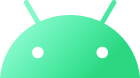
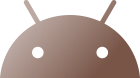
验收&修改主色

diff --git a/index.html b/index.html
@@ -56,21 +56,21 @@
             <div class="features-title">产品功能</div>
             <div class="features-content">
                 <div class="features-item">
-                    <img class="features-item-icon" src="./images/ai.png" />
+                    <img class="features-item-icon" src="./images/1.png" />
                     <div>
                         <div class="features-item-title">生成式AI翻译引擎</div>
                         <div>领先的自研语音识别技术与GPT内容理解结合，进行了AI解译预调教，提供准确专业的同传翻译</div>
                     </div>
                 </div>
                 <div class="features-item">
-                    <img class="features-item-icon" src="./images/voice.png" />
+                    <img class="features-item-icon" src="./images/2.png" />
                     <div>
                         <div class="features-item-title">实时语音转写</div>
                         <div>对通过硬件接受的音源信号，针对连续中文语音流进行实时语音转写识别</div>
                     </div>
                 </div>
                 <div class="features-item">
-                    <img class="features-item-icon" src="./images/sound-recording.png" />
+                    <img class="features-item-icon" src="./images/3.png" />
                     <div>
                         <div class="features-item-title">会议录音转写</div>
                         <div>对历史音频导入系统，进行快速转写，支持对转写进行结果编辑整理</div>
@@ -79,21 +79,21 @@
             </div>
             <div class="features-content">
                 <div class="features-item">
-                    <img class="features-item-icon" src="./images/multi-scenario-applications.png" />
+                    <img class="features-item-icon" src="./images/4.png" />
                     <div>
                         <div class="features-item-title">多场景应用</div>
                         <div>针对国外课程学习，多人视频会议，面试求职等典型场景，翻译纪要要查看、编辑、导出等功能</div>
                     </div>
                 </div>
                 <div class="features-item">
-                    <img class="features-item-icon" src="./images/technology-identification.png" />
+                    <img class="features-item-icon" src="./images/5.png" />
                     <div>
                         <div class="features-item-title">技术领先识别准确</div>
                         <div>采用领先国际的流式端到端语音语言一体化建模方案，融合自研的自然语言处理技术，近场英文识别准确率99%+</div>
                     </div>
                 </div>
                 <div class="features-item">
-                    <img class="features-item-icon" src="./images/intelligent-conversion.png" />
+                    <img class="features-item-icon" src="./images/6.png" />
                     <div>
                         <div class="features-item-title">数字格式智能转换</div>
                         <div>根据语音内容理解可以将数字序列、小数、时间、分数、基础运算符正确转换为数字格式，使得识别的数字结果更符合使用习惯，直观自然</div>

diff --git a/index.css b/index.css
@@ -34,7 +34,10 @@ body {
 .top-nav {
     width: 100%;
     height: 64px;
-    background: #000;
+    background: rgba(0, 0, 0, 0.8);
+    position: sticky;
+    top: 0;
+    z-index: 1;
 }
 
 .top-nav-logo {
@@ -47,7 +50,7 @@ body {
 .lang {
     width: 80px;
     height: 46px;
-    background: #4E9F3D;
+    background: #795548;
     border-radius: 23px;
     padding: 8px 10px;
     box-sizing: border-box;
@@ -69,7 +72,7 @@ body {
 
 .lang .lang-active {
     background: #FFFFFF;
-    color: #4E9F3D;
+    color: #795548;
     opacity: 1;
 }
 
@@ -133,7 +136,7 @@ body {
 .banner .experience-btn {
     width: 151px;
     height: 49px;
-    background: #4E9F3D;
+    background: #795548;
     border-radius: 6px;
     font-size: 18px;
     font-weight: 500;
@@ -145,7 +148,7 @@ body {
 }
 
 .banner .experience-btn:hover {
-    background: #338d20;
+    background: #684539;
 }
 
 .content-box {
@@ -236,6 +239,7 @@ body {
     display: flex;
     align-items: baseline;
     margin-bottom: 36px;
+    font-size: 18px;
 }
 
 .introduce-item  img {
@@ -288,7 +292,7 @@ body {
 }
 
 .part2-steps {
-    border: 1px solid #D8E9A8;
+    border: 1px solid #795548;
     border-radius: 9px;
     padding: 8px;
     box-sizing: border-box;
@@ -344,11 +348,12 @@ body {
 }
 
 .FAQS-item:hover div{
-    color: #4E9F3D;
+    color: #795548;
+    color: #795548;
 }
 
 .FAQS-item-box-active div {
-    color: #4E9F3D;
+    color: #795548;
 }
 
 .FAQS-item-box-active .FAQS-item{
@@ -371,7 +376,7 @@ body {
 .FAQS-detail .dot {
     width: 6px;
     height: 6px;
-    background: #4E9F3D;
+    background: #795548;
     border-radius: 50%;
     margin-right: 10px;
     margin-top: 4px;
@@ -381,15 +386,14 @@ body {
     margin-bottom: 24px;
     flex: 1;
     line-height: 1;
-    color: #4E9F3D;
+    color: #795548;
     font-size: 16px;
 }
 
 .platform {
     width: 100%;
     height: 630px;
-    background: url("./images/platform-bg.png") center center no-repeat;
-    background-size: cover;
+    background-color: #F7F7F7;
 }
 
 .platform-title {
